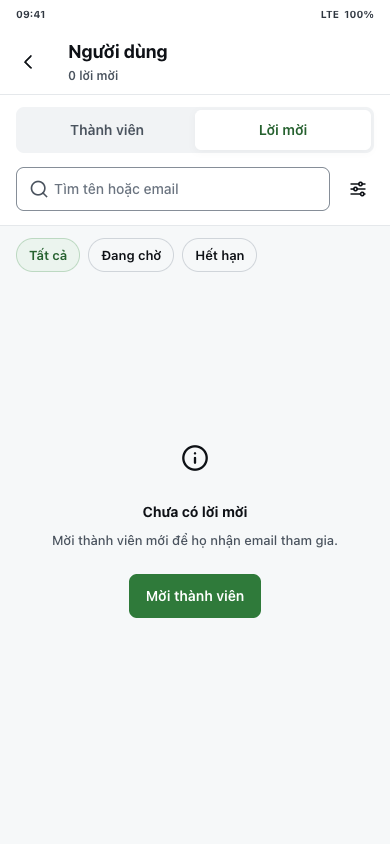
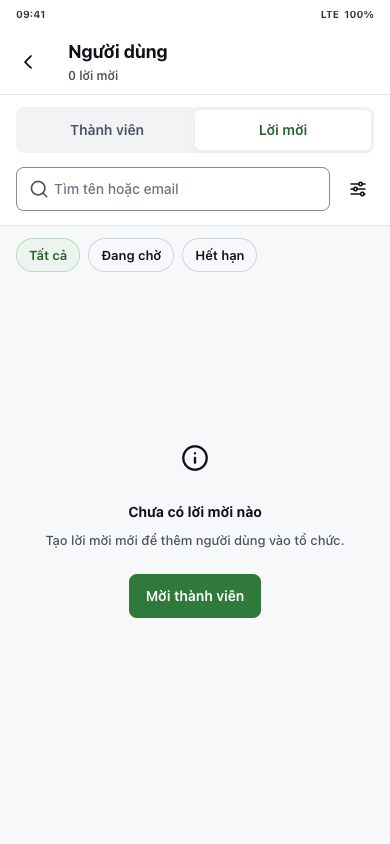
docs(10-8h): prototype sửa Q3–Q6, Q18, Q20, Q21; thêm ca select-role__confirm, chụp lại ảnh

Changed region(s): [[0.1231, 0.5853, 0.8615, 0.6469]]

diff --git a/specs/themes/theme-01/03.design/prototype/html/app/users.js b/specs/themes/theme-01/03.design/prototype/html/app/users.js
@@ -52,7 +52,7 @@ export function usersListPage(s, placeWidth, { selectedId = null, toastHtml = ''
   else if (s.failure === 'forbidden') list = usersEmpty({ ic: 'shield', tone: 'warning', title: 'Bạn không có quyền quản lý', sub: 'Liên hệ Chủ tổ chức hoặc Quản trị viên để được cấp quyền phù hợp.', action: 'Quay lại' });
   else if (s.failure) list = usersEmpty({ ic: 'close', tone: 'danger', title: 'Không thể tải danh sách', sub: 'Không thể kết nối đến máy chủ. Vui lòng kiểm tra lại mạng.', action: 'Thử lại', danger: true });
   else if (!items.length && (s.query || s.chip)) list = usersEmpty({ ic: 'search', title: 'Không tìm thấy kết quả', sub: 'Thử từ khóa khác hoặc xóa bộ lọc đang áp dụng.', action: 'Xóa bộ lọc', variant: 'secondary' });
-  else if (!items.length) list = usersEmpty({ ic: 'info', title: s.tab === 0 ? 'Chưa có thành viên khác' : 'Chưa có lời mời', sub: s.tab === 0 ? 'Mời thêm người dùng để cùng vận hành tổ chức.' : 'Mời thành viên mới để họ nhận email tham gia.', action: 'Mời thành viên' });
+  else if (!items.length) list = usersEmpty({ ic: 'info', title: s.tab === 0 ? 'Chưa có thành viên khác' : 'Chưa có lời mời nào', sub: s.tab === 0 ? 'Mời thêm người dùng để cùng vận hành tổ chức.' : 'Tạo lời mời mới để thêm người dùng vào tổ chức.', action: 'Mời thành viên' });
   else list = `<div class="t1-ulist">${items.map((x) => (s.tab === 0 ? memberCard(x, x.id === selectedId) : invitationCard(x, x.id === selectedId))).join('')}</div>`;
   const chips = s.tab === 0 ? ['Tất cả', 'Hoạt động', 'Tạm ngừng'] : ['Tất cả', 'Đang chờ', 'Hết hạn'];
   const body = `<div class="t1-utop"><div class="t1-useg" role="tablist">${['Thành viên', 'Lời mời'].map((l, i) => `<button type="button" role="tab" aria-selected="${i === s.tab}">${l}</button>`).join('')}</div>
@@ -69,7 +69,7 @@ export function usersListPage(s, placeWidth, { selectedId = null, toastHtml = ''
 export function filterSheet(kind) {
   const groups = kind === 'members'
     ? [['Trạng thái', ['Tất cả', 'Hoạt động', 'Tạm ngừng']], ['Vai trò', ['Tất cả', 'Chủ cửa hàng', 'Nhân viên bán hàng', 'Kế toán', 'Thủ kho']], ['Sắp xếp', ['Tất cả', 'Tên A–Z', 'Tên Z–A']]]
-    : [['Trạng thái', ['Tất cả', 'Đang chờ', 'Hết hạn']], ['Kết quả gửi', ['Tất cả', 'Đã gửi', 'Gửi lỗi', 'Thu hồi']], ['Thời gian', ['Tất cả', '7 ngày', '30 ngày', 'Tùy chọn']]];
+    : [['Trạng thái', ['Tất cả', 'Đang chờ', 'Hết hạn', 'Thu hồi']], ['Kết quả gửi', ['Tất cả', 'Đã gửi', 'Gửi lỗi']], ['Thời gian', ['Tất cả', '7 ngày', '30 ngày', 'Tùy chọn']]];
   return `<div class="t1-fsheet">${groups.map(([t, opts]) => `<div class="t1-fgroup"><b>${esc(t)}</b><div class="t1-fwrap">${opts.map((o, i) => filterChip(o, i === 0)).join('')}</div></div>`).join('')}
     <div class="t1-row2 t1-fsheet__acts">${button('Đặt lại', { variant: 'secondary', full: true })}${button('Áp dụng', { full: true })}</div></div>`;
 }
@@ -95,7 +95,7 @@ export function usersPage(v) {
 
 // ---------------------------------------------------------------- ID-15 mời thành viên
 export const INVITE_STATES = {
-  empty: {}, filled: { email: 'tuan@anphat.vn', role: 'Nhân viên bán hàng' }, 'empty-submit': { errors: { email: 'Vui lòng nhập email và chọn vai trò.' } },
+  empty: {}, filled: { email: 'tuan@anphat.vn', role: 'Nhân viên bán hàng' }, 'empty-submit': { errors: { email: 'Vui lòng nhập email và chọn vai trò.', role: 'Vui lòng nhập email và chọn vai trò.' } },
   'no-role': { email: 'tuan@anphat.vn', errors: { role: 'Vui lòng nhập email và chọn vai trò.' } }, 'bad-email': { email: 'tuan@anphat', role: 'Nhân viên bán hàng', errors: { email: 'Email không hợp lệ' } },
   submitting: { email: 'tuan@anphat.vn', role: 'Nhân viên bán hàng', busy: true },
   'toast-failed': { email: 'tuan@anphat.vn', role: 'Nhân viên bán hàng', toast: ['danger', 'Không gửi được lời mời', 'Đã có lời mời đang chờ xử lý.'] },
@@ -114,7 +114,7 @@ export function invitePage(v) {
     return `<button type="button" role="radio" class="t1-rolelist__opt${on ? ' is-on' : ''}" aria-checked="${on}">${radio(on)}<span><b>${esc(name)}</b><small>${esc(d)}</small></span></button>`;
   };
   const body = `<div class="t1-list t1-invitem">
-    ${card(`${field({ label: 'Email', required: true, control: input({ value: s.email || '', hint: 'nhanvien@minhphat.vn', invalid: !!e.email }), error: e.email })}
+    ${card(`${field({ label: 'Email', required: true, control: input({ value: s.email || '', hint: 'nhanvien@example.com', invalid: !!e.email }), error: e.email })}
       <p class="t1-small t1-invitem__note">Người nhận phải đăng nhập đúng email. Lời mời sẽ hết hạn sau 7 ngày.</p>`, 't1-card--pad')}
     ${card(`<div class="t1-rolelist__legend"><span class="t1-label">Vai trò ban đầu<i aria-hidden="true"> *</i></span></div>
       <div role="radiogroup" aria-label="Vai trò ban đầu">${SELECT_ROLES.map(roleRow).join('')}</div>`, `t1-rolelist${e.role ? ' is-invalid' : ''}`)}
@@ -159,10 +159,10 @@ function invitationDetail(s, w, split, device) {
 
 /** Sheet "Thao tác lời mời" (có title): đệm 16; IamActionTile gửi lại / khe 8 / thu hồi (danger) / khe 16. */
 const invitationActions = () => `<div class="t1-list">${actionTile('rotate', 'Gửi lại lời mời', 'Gửi lại email đến người nhận')}<div class="t1-gap-sm"></div>${actionTile('trash', 'Thu hồi lời mời', 'Người nhận không thể tiếp tục tham gia', true)}<div class="t1-gap-md"></div></div>`;
-/** _RevokeInvitationSheetBody: đệm 16; H3 w700 danger; khe 4; bodyDefault; (không khe) VField "Lý do thu hồi" + ô 3 dòng; khe 24; Quay lại / khe 8 / Thu hồi (secondary danger) / khe 8. */
+/** _RevokeInvitationSheetBody: đệm 16; H3 w700 danger; khe 4; bodyDefault; khe 16; VField "Lý do thu hồi *" + ô 3 dòng; khe 24; Quay lại / khe 8 / Thu hồi (secondary danger) / khe 8. */
 export const revokeSheet = (s) => `<div class="t1-list"><h2 class="t1-h3 t1-danger">Thu hồi lời mời?</h2><div class="t1-gap-xs"></div>
-  <p class="t1-body2">Người nhận sẽ không thể dùng liên kết hiện tại để tham gia tổ chức.</p>
-  ${field({ label: 'Lý do thu hồi', control: textArea({ value: s.reason || '', hint: 'Ví dụ: Sai email người nhận', invalid: !!s.revokeError, disabled: !!s.revokeBusy }), error: s.revokeError })}
+  <p class="t1-body2">Người nhận sẽ không thể dùng liên kết hiện tại để tham gia tổ chức.</p><div class="t1-gap-md"></div>
+  ${field({ label: 'Lý do thu hồi', required: true, control: textArea({ value: s.reason || '', hint: 'Ví dụ: Sai email người nhận', invalid: !!s.revokeError, disabled: !!s.revokeBusy }), error: s.revokeError })}
   <div class="t1-gap-lg"></div>${button('Quay lại', { variant: 'secondary', full: true, disabled: !!s.revokeBusy })}<div class="t1-gap-sm"></div>
   ${button('Thu hồi lời mời', { variant: 'secondary', full: true, loading: !!s.revokeBusy, cls: 't1-btn--danger-outline' })}<div class="t1-gap-sm"></div></div>`;
 
@@ -206,7 +206,7 @@ function memberDetail(s, w, split, device) {
   const body = `<div class="t1-list t1-orgm">
     <div class="t1-orgm__head${off}">${memberAvatar(m)}<div><h2>${esc(m.name)}</h2><p>${esc(m.email)}</p></div></div>
     <section class="t1-card t1-card--pad t1-orgm__sec${off}"><div class="t1-dhead"><h3 class="t1-h4 t1-h4--600">Thông tin thành viên</h3>${badge(label, tone)}</div>
-      ${drow('Tên', m.name)}${drow('Email', m.email)}${drow('Vai trò hiện hành', m.role)}${drow(m.isOwner ? 'Quyền sở hữu' : 'Danh tính', m.isOwner ? 'Chủ sở hữu' : 'Chỉ đọc')}</section>
+      ${drow('Tên', m.name)}${drow('Email', m.email)}${drow('Vai trò hiện hành', m.role)}${drow('Quyền sở hữu', m.isOwner ? 'Chủ sở hữu' : 'Thành viên')}</section>
     ${note}
     <section class="t1-card t1-card--pad t1-orgm__sec"><h3 class="t1-h4 t1-h4--600">Trạng thái truy cập</h3>${access}</section>
   </div>`;
@@ -248,7 +248,14 @@ export function memberDetailPage(v) {
 // ---------------------------------------------------------------- ID-18 chọn vai trò
 /** _availableRoles (mô tả riêng của màn này, ngắn hơn TH-01 3.4); vai trò hiện tại đưa lên đầu. */
 export const SELECT_ROLES = [['Nhân viên bán hàng', 'Bán hàng và chăm sóc khách hàng'], ['Kế toán', 'Công nợ, hóa đơn và báo cáo'], ['Thủ kho', 'Nhập xuất, tồn kho và kiểm kê'], ['Chủ cửa hàng', 'Quản lý toàn bộ cửa hàng']];
-export const SELECT_STATES = { default: { id: 'm2' }, selected: { id: 'm2', pick: 'Thủ kho' }, suspended: { id: 'm3' } };
+export const SELECT_STATES = { default: { id: 'm2' }, selected: { id: 'm2', pick: 'Thủ kho' }, confirm: { id: 'm2', pick: 'Thủ kho', sheet: 'confirm' }, suspended: { id: 'm3' } };
+
+/** showChangeRoleBottomSheet (MembershipLifecycleConfirmSheet, 10-8h Q6): tiêu đề đen; mô tả hai dòng "<cũ> → <mới>" + câu nhãn công việc; khe 32; Quay lại / khe 8 / "Xác nhận thay đổi" (primary). */
+export const changeRoleSheet = (m, pick, busy = false) => `<div class="t1-sheetpad"><h2 class="t1-h3">${esc(`Đổi vai trò của ${m.name}?`)}</h2><div class="t1-gap-xs"></div>
+  <p class="t1-body2">${esc(`Vai trò ${m.role} → ${pick}.`)}<br>Vai trò là nhãn công việc; quyền nghiệp vụ của thành viên không thay đổi.</p><div class="t1-gap-xl"></div>
+  ${button('Quay lại', { variant: 'secondary', full: true, disabled: busy })}<div class="t1-gap-sm"></div>
+  ${button('Xác nhận thay đổi', { full: true, loading: busy })}</div>`;
+export const changeRoleTitle = (m) => `Đổi vai trò của ${m.name}?`;
 
 // Bố cục iPhone thiết kế lại qua impeccable live (2026-11-25): ô tròn + tên + nhãn → "Chọn vai trò mới" → thẻ danh sách (vai trò hiện tại dòng đầu nền canvas, không chọn được). Web giữ bản cũ ở web/users.js.
 function selectRole(s, w) {
@@ -264,7 +271,7 @@ function selectRole(s, w) {
   };
   const body = `<div class="t1-list t1-selrole">
     <div class="t1-orgm__head">${memberAvatar(m)}<div><div class="t1-selrole__name"><h2>${esc(m.name)}</h2>${badge(active ? 'Hoạt động' : 'Tạm ngừng', active ? 'success' : 'danger')}</div>
-      <p>${esc(`${m.email} · ${m.role}`)}</p><p>${m.isOwner ? 'Quyền sở hữu: Chủ sở hữu' : 'Danh tính: Chỉ đọc'}</p></div></div>
+      <p>${esc(`${m.email} · ${m.role}`)}</p><p>${m.isOwner ? 'Quyền sở hữu: Chủ sở hữu' : 'Quyền sở hữu: Thành viên'}</p></div></div>
     <h3 class="t1-selrole__title">Chọn vai trò mới</h3><p class="t1-small t1-selrole__sub">Mỗi thành viên có đúng một vai trò hiện hành.</p>
     ${card(`<div role="radiogroup" aria-label="Chọn vai trò mới">${roles.map(item).join('')}</div>`, 't1-rolelist')}</div>`;
   const bar = `<div class="t1-bar-pad t1-row2 t1-row2--8">${button('Hủy', { variant: 'secondary', full: true })}${button('Tiếp tục', { full: true, disabled: !s.pick, attrs: 'data-primary' })}</div>`;
@@ -273,5 +280,7 @@ function selectRole(s, w) {
 
 export function selectRolePage(v) {
   const s = SELECT_STATES[v.state];
-  return { page: usersArea(v, { tab: 0 }, { selectedId: s.id, detail: (w) => selectRole(s, w) }) };
+  const m = memberById(s.id);
+  const overlay = s.sheet === 'confirm' ? adaptiveSheet(v.width, changeRoleSheet(m, s.pick), changeRoleTitle(m)) : '';
+  return { page: usersArea(v, { tab: 0 }, { selectedId: s.id, detail: (w) => selectRole(s, w) }), overlay };
 }

diff --git a/specs/themes/theme-01/03.design/prototype/html/app/cases.js b/specs/themes/theme-01/03.design/prototype/html/app/cases.js
@@ -134,22 +134,22 @@ export const SCREENS = [
       ['invitations', 'Tab Lời mời', 'Thẻ email + dòng vai trò + dòng "hạn · gửi" + nhãn (Đang chờ vàng, Sắp hết hạn / Lỗi gửi đỏ, Hết hạn xám).'],
       ['loading', 'Đang tải thành viên', 'Phụ đề "Đang tải thành viên"; VLoading dưới hàng chip; thanh dưới vẫn hiện.'],
       ['invitations-loading', 'Đang tải lời mời', 'Phụ đề "Đang tải lời mời".'],
-      ['invitations-empty', 'Chưa có lời mời', 'Hộp icon 56 + "Chưa có lời mời" + nút "Mời thành viên" (khung cao 480 canh giữa); không có thanh dưới.'],
+      ['invitations-empty', 'Chưa có lời mời', 'Hộp icon 56 + "Chưa có lời mời nào" / "Tạo lời mời mới để thêm người dùng vào tổ chức." + nút "Mời thành viên" (khung cao 480 canh giữa); không có thanh dưới.'],
       ['no-results', 'Không có kết quả', 'Tìm "hoàng": phụ đề "0 kết quả", "Không tìm thấy kết quả" + "Xóa bộ lọc".'],
       ['chip-suspended', 'Chip Tạm ngừng', 'Chip đang chọn tone primary; còn 1 thẻ.'],
       ['forbidden', 'Không có quyền', 'Khiên vàng, "Bạn không có quyền quản lý" + nút xanh "Quay lại". Phụ đề "Chưa cấp quyền".'],
       ['error', 'Lỗi tải', 'Dấu × đỏ, tiêu đề đỏ, nút đỏ "Thử lại".'],
       ['filter-members', 'Bộ lọc thành viên (sheet)', 'Sheet có tiêu đề + gạch; chip kiểu riêng (viền / nền xanh nhạt) khác chip nhanh. Web: hộp thoại 480.'],
-      ['filter-invitations', 'Bộ lọc lời mời (sheet)', 'Kết quả gửi, Thời gian (Tùy chọn mở chọn khoảng ngày).'],
+      ['filter-invitations', 'Bộ lọc lời mời (sheet)', 'Trạng thái (Tất cả / Đang chờ / Hết hạn / Thu hồi), Kết quả gửi (Tất cả / Đã gửi / Gửi lỗi), Thời gian (Tùy chọn mở chọn khoảng ngày).'],
       ['filter-applied', 'Bộ lọc đang áp dụng', 'Chấm xanh 8 ở góc nút bộ lọc; chip nhanh vẫn "Tất cả" (vai trò lọc không hiện ra ngoài).'],
       ['toast-revoked', 'Toast đã thu hồi', 'Hẹp: về danh sách, toast đáy.'],
     ],
   },
   {
     id: 'invite', group: 'admin', code: 'ID-15', title: 'Mời thành viên', route: '/more/users/invite', states: [
-      ['empty', 'Mặc định', 'Thẻ Email (ghi chú dưới ô) + thẻ "Vai trò ban đầu" 4 dòng radio có mô tả. Gợi ý "nhanvien@minhphat.vn" (không phải tên cửa hàng).'],
+      ['empty', 'Mặc định', 'Thẻ Email (ghi chú dưới ô) + thẻ "Vai trò ban đầu" 4 dòng radio có mô tả. Gợi ý "nhanvien@example.com".'],
       ['filled', 'Đã điền', 'Chọn "Nhân viên bán hàng".'],
-      ['empty-submit', 'Bấm Gửi khi trống', 'Chỉ ô Email báo "Vui lòng nhập email và chọn vai trò." — ô vai trò không đỏ.'],
+      ['empty-submit', 'Bấm Gửi khi trống', 'Cả ô Email và thẻ vai trò báo "Vui lòng nhập email và chọn vai trò."; thẻ viền đỏ.'],
       ['no-role', 'Thiếu vai trò', 'Lỗi giống câu trên hiện dưới thẻ vai trò; thẻ viền đỏ.'],
       ['bad-email', 'Email sai', '"Email không hợp lệ".'],
       ['submitting', 'Đang gửi', '"Đang gửi..." mờ, không vòng xoay (khác các màn khác).'],
@@ -166,8 +166,8 @@ export const SCREENS = [
       ['loading', 'Đang tải', 'VLoading.'],
       ['error', 'Lỗi tải', '"Không tải được lời mời".'],
       ['actions', 'Sheet Thao tác', 'Có tiêu đề "Thao tác lời mời"; ô "Gửi lại" và ô đỏ "Thu hồi".'],
-      ['revoke', 'Sheet Thu hồi', 'Tiêu đề đỏ; ô lý do dính sát câu mô tả (không khe); "Thu hồi lời mời" viền đỏ dưới "Quay lại".'],
-      ['revoke-empty', 'Thu hồi khi trống lý do', 'Lỗi "Vui lòng nhập lý do thu hồi." (nhãn không có * dù bắt buộc).'],
+      ['revoke', 'Sheet Thu hồi', 'Tiêu đề đỏ; khe 16 rồi ô "Lý do thu hồi *"; "Thu hồi lời mời" viền đỏ dưới "Quay lại".'],
+      ['revoke-empty', 'Thu hồi khi trống lý do', 'Lỗi "Vui lòng nhập lý do thu hồi." dưới ô.'],
       ['revoke-submitting', 'Đang thu hồi', 'Ô lý do và "Quay lại" mờ, nút đỏ vòng xoay.'],
       ['toast-created', 'Vừa gửi lời mời', 'Sau ID-15: toast hiện ở trang chi tiết (title, message rỗng).'],
       ['toast-created-warning', 'Tạo xong nhưng email lỗi', 'Toast vàng "Email chưa gửi được…".'],
@@ -178,7 +178,7 @@ export const SCREENS = [
   },
   {
     id: 'member-detail', group: 'admin', code: 'ID-17', title: 'Chi tiết thành viên', route: '/more/users/members/m2', states: [
-      ['active', 'Hoạt động', 'Ô tròn + tên + email đầu màn; hai thẻ; "Danh tính: Chỉ đọc" cho mọi thành viên không phải chủ (dễ hiểu nhầm là quyền). Thao tác ⌃.'],
+      ['active', 'Hoạt động', 'Ô tròn + tên + email đầu màn; hai thẻ; "Quyền sở hữu: Thành viên" cho thành viên không phải chủ. Thao tác ⌃.'],
       ['suspended', 'Tạm ngừng', 'Banner vàng giữa hai thẻ; "Tạm ngừng lúc".'],
       ['removed', 'Đã loại', 'Đầu màn + thẻ đầu mờ 60%; banner info; không thanh thao tác.'],
       ['owner', 'Chủ sở hữu duy nhất', '"Quyền sở hữu: Chủ sở hữu"; không có thanh thao tác.'],
@@ -197,8 +197,9 @@ export const SCREENS = [
   },
   {
     id: 'select-role', group: 'admin', code: 'ID-18', title: 'Chọn vai trò', route: '/more/users/members/m2', states: [
-      ['default', 'Mặc định', 'Ô tròn + tên + nhãn đầu màn; danh sách một khối, vai trò hiện tại dòng đầu nền xám có nhãn "Hiện tại"; chưa chọn → "Tiếp tục" mờ. Không có màn "Xem trước thay đổi" — chọn xong lưu ngay.'],
+      ['default', 'Mặc định', 'Ô tròn + tên + nhãn đầu màn; danh sách một khối, vai trò hiện tại dòng đầu nền xám có nhãn "Hiện tại"; chưa chọn → "Tiếp tục" mờ; "Tiếp tục" mở sheet xác nhận.'],
       ['selected', 'Đã chọn Thủ kho', 'Dòng chọn nền xanh nhạt; radio bật.'],
+      ['confirm', 'Xác nhận đổi vai trò (sheet)', '"Đổi vai trò của Trần Văn Minh?"; "Vai trò Nhân viên bán hàng → Thủ kho." + câu nhãn công việc; "Quay lại" / "Xác nhận thay đổi". Web: hộp thoại.'],
       ['suspended', 'Thành viên tạm ngừng', 'Nhãn đỏ "Tạm ngừng" cạnh tên; ô tròn xám.'],
     ],
   },

diff --git a/specs/themes/theme-01/03.design/prototype/html/app/web/users.js b/specs/themes/theme-01/03.design/prototype/html/app/web/users.js
@@ -7,7 +7,7 @@ import {
 } from '../ds.js';
 import { BAR_H, loadFailed } from '../org.js';
 import {
-  filterSheet, INVITATION_STATES, INVITE_STATES, LIFECYCLE, lifecycleSheet, LIST_STATES, MEMBER_STATES, revokeSheet, SELECT_ROLES, SELECT_STATES,
+  changeRoleSheet, changeRoleTitle, filterSheet, INVITATION_STATES, INVITE_STATES, LIFECYCLE, lifecycleSheet, LIST_STATES, MEMBER_STATES, revokeSheet, SELECT_ROLES, SELECT_STATES,
   subtitle, usersEmpty,
 } from '../users.js';
 
@@ -31,7 +31,7 @@ function usersListPage(s, toastHtml) {
   else if (s.failure === 'forbidden') list = usersEmpty({ ic: 'shield', tone: 'warning', title: 'Bạn không có quyền quản lý', sub: 'Liên hệ Chủ tổ chức hoặc Quản trị viên để được cấp quyền phù hợp.', action: 'Quay lại' });
   else if (s.failure) list = usersEmpty({ ic: 'close', tone: 'danger', title: 'Không thể tải danh sách', sub: 'Không thể kết nối đến máy chủ. Vui lòng kiểm tra lại mạng.', action: 'Thử lại', danger: true });
   else if (!items.length && (s.query || s.chip)) list = usersEmpty({ ic: 'search', title: 'Không tìm thấy kết quả', sub: 'Thử từ khóa khác hoặc xóa bộ lọc đang áp dụng.', action: 'Xóa bộ lọc' });
-  else if (!items.length) list = usersEmpty({ ic: 'info', title: s.tab === 0 ? 'Chưa có thành viên khác' : 'Chưa có lời mời', sub: s.tab === 0 ? 'Mời thêm người dùng để cùng vận hành tổ chức.' : 'Mời thành viên mới để họ nhận email tham gia.', action: 'Mời thành viên' });
+  else if (!items.length) list = usersEmpty({ ic: 'info', title: s.tab === 0 ? 'Chưa có thành viên khác' : 'Chưa có lời mời nào', sub: s.tab === 0 ? 'Mời thêm người dùng để cùng vận hành tổ chức.' : 'Tạo lời mời mới để thêm người dùng vào tổ chức.', action: 'Mời thành viên' });
   const chips = s.tab === 0 ? ['Tất cả', 'Hoạt động', 'Tạm ngừng'] : ['Tất cả', 'Đang chờ', 'Hết hạn'];
   return usersTablePage(s, items, list, chips, toastHtml);
 }
@@ -83,7 +83,7 @@ export function invitePage(v) {
   };
   const body = `<div class="t1-formpage"><p class="t1-small">Người nhận phải đăng nhập đúng email. Lời mời sẽ hết hạn sau 7 ngày.</p>
     <div class="t1-formcard"><div class="t1-form">
-      ${field({ label: 'Email', required: true, control: input({ value: s.email || '', hint: 'nhanvien@minhphat.vn', invalid: !!e.email, disabled: !!s.busy }), error: e.email })}
+      ${field({ label: 'Email', required: true, control: input({ value: s.email || '', hint: 'nhanvien@example.com', invalid: !!e.email, disabled: !!s.busy }), error: e.email })}
       <fieldset class="t1-rolepick${e.role ? ' is-invalid' : ''}"><legend class="t1-label">Vai trò ban đầu<i aria-hidden="true"> *</i></legend>
         <div class="t1-rolepick__grid">${SELECT_ROLES.map(roleCard).join('')}</div>
         ${e.role ? fieldError(e.role) : fieldDesc('Vai trò có thể thay đổi sau khi tham gia.')}</fieldset>
@@ -139,7 +139,7 @@ function memberDetail(s, w, device) {
   const sec = (title, action, inner) => `<section class="t1-orgsec"><div class="t1-orgsec__head"><h2>${esc(title)}</h2>${action}</div>${inner}</section>`;
   const body = `<div class="t1-orgp">
     <div class="t1-orgp__head${m.status === 'removed' ? ' t1-o60' : ''}">${avatar(m.name).replace('t1-avatar"', 't1-avatar t1-avatar--lg"')}<div><h1>${esc(m.name)}</h1><p>${esc(`${m.email} · ${m.role}`)}</p></div></div>
-    <div${m.status === 'removed' ? ' class="t1-o60"' : ''}>${sec('Thông tin thành viên', badge(label, tone), `<div class="t1-stack12">${row('Tên', m.name)}${row('Email', m.email)}${row('Vai trò hiện hành', m.role)}${row(m.isOwner ? 'Quyền sở hữu' : 'Danh tính', m.isOwner ? 'Chủ sở hữu' : 'Chỉ đọc')}</div>`)}</div>
+    <div${m.status === 'removed' ? ' class="t1-o60"' : ''}>${sec('Thông tin thành viên', badge(label, tone), `<div class="t1-stack12">${row('Tên', m.name)}${row('Email', m.email)}${row('Vai trò hiện hành', m.role)}${row('Quyền sở hữu', m.isOwner ? 'Chủ sở hữu' : 'Thành viên')}</div>`)}</div>
     ${note}
     ${sec('Trạng thái truy cập', '', `<div class="t1-stack12">${access}</div>${acts}`)}
   </div>`;
@@ -165,7 +165,7 @@ function selectRole(s, w) {
   };
   const body = `<div class="t1-list">
     ${vcard(`<div class="t1-dhead"><h2 class="t1-h4">${esc(m.name)}</h2>${badge(active ? 'Hoạt động' : 'Tạm ngừng', active ? 'success' : 'danger')}</div><div class="t1-gap-xs"></div>
-      <p class="t1-small">${esc(`${m.email} · ${m.role}`)}</p><div class="t1-gap-md"></div><p class="t1-strong">${m.isOwner ? 'Quyền sở hữu: Chủ sở hữu' : 'Danh tính: Chỉ đọc'}</p>`)}
+      <p class="t1-small">${esc(`${m.email} · ${m.role}`)}</p><div class="t1-gap-md"></div><p class="t1-strong">${m.isOwner ? 'Quyền sở hữu: Chủ sở hữu' : 'Quyền sở hữu: Thành viên'}</p>`)}
     <div class="t1-gap-md"></div><h2 class="t1-h4">Chọn vai trò mới</h2><div class="t1-gap-xs"></div><p class="t1-small">Mỗi thành viên có đúng một vai trò hiện hành.</p><div class="t1-gap-md"></div>
     ${roles.map(item).join('')}</div>`;
   const bar = `<div class="t1-bar-pad t1-row2 t1-row2--8">${button('Hủy', { variant: 'secondary', full: true })}${button('Tiếp tục', { full: true, disabled: !s.pick })}</div>`;
@@ -174,5 +174,7 @@ function selectRole(s, w) {
 
 export function selectRolePage(v) {
   const s = SELECT_STATES[v.state];
-  return { page: selectRole(s, v.width) };
+  const m = memberById(s.id);
+  const overlay = s.sheet === 'confirm' ? adaptiveSheet(v.width, changeRoleSheet(m, s.pick), changeRoleTitle(m)) : '';
+  return { page: selectRole(s, v.width), overlay };
 }

diff --git a/specs/themes/theme-01/03.design/prototype/html/app/admin-data.js b/specs/themes/theme-01/03.design/prototype/html/app/admin-data.js
@@ -21,7 +21,7 @@ export const ROLE_DESC = {
   'Thủ kho': 'Nhập xuất, tồn kho và kiểm kê',
 };
 
-// identityText: chủ → "Chủ sở hữu", còn lại → "Chỉ đọc" (member_ui_mapper.dart).
+// identityText: chủ → "Chủ sở hữu", còn lại → "Thành viên" (member_ui_mapper.dart, 10-8h Q18).
 export const MEMBERS = [
   { id: 'm1', name: 'Nguyễn Thị Lan', email: 'lan@anphat.vn', role: 'Chủ cửa hàng', status: 'active', isOwner: true, soleOwner: true, joined: '02/09/2026', lastActive: '22/11/2026 08:41' },
   { id: 'm2', name: 'Trần Văn Minh', email: 'minh@anphat.vn', role: 'Nhân viên bán hàng', status: 'active', joined: '15/10/2026', lastActive: '21/11/2026 17:05' },
@@ -31,7 +31,8 @@ export const MEMBERS = [
 export const REMOVED = { id: 'm4', name: 'Phạm Quốc Bảo', email: 'bao@anphat.vn', role: 'Thủ kho', status: 'removed', joined: '01/10/2026', removedAt: '10/11/2026 14:30' };
 export const memberById = (id) => [...MEMBERS, REMOVED].find((m) => m.id === id);
 
-/** statusDetail = "<vai trò> · <hạn> · <gửi>" (invitation_ui_mapper.dart); status theo thứ tự: kết thúc > gửi lỗi > sắp hết hạn (≤ 2 ngày) > đang chờ. */
+/** statusDetail = "<vai trò> · <hạn> · <gửi>" (invitation_ui_mapper.dart); status theo thứ tự: kết thúc > gửi lỗi > sắp hết hạn (≤ 2 ngày) > đang chờ.
+ * Đã chấp nhận / từ chối / thu hồi: không ghi hạn (expiry rỗng); mã gửi lạ → "—" (10-8h Q20). */
 export const INVITATIONS = [
   { id: 'i1', email: 'tuan@anphat.vn', role: 'Nhân viên bán hàng', expiry: 'Hết hạn sau 6 ngày', delivery: 'sent', wire: 'pending', status: 'pending' },
   { id: 'i2', email: 'nga.kt@gmail.com', role: 'Kế toán', expiry: 'Hết hạn trong 1 ngày', delivery: 'sent', wire: 'pending', status: 'expiring' },
@@ -39,7 +40,7 @@ export const INVITATIONS = [
   { id: 'i4', email: 'vy@anphat.vn', role: 'Nhân viên bán hàng', expiry: 'Đã hết hạn', delivery: 'sent', wire: 'expired', status: 'expired' },
 ];
 const DELIVERY = { failed: 'Chưa gửi được email', queued: 'Đang xếp hàng gửi', sent: 'Đã gửi email' };
-export const statusDetail = (i) => `${i.role} · ${i.expiry} · ${DELIVERY[i.delivery] || i.delivery}`;
+export const statusDetail = (i) => [i.role, i.expiry, DELIVERY[i.delivery] || '—'].filter(Boolean).join(' · ');
 export const invitationById = (id) => INVITATIONS.find((i) => i.id === id);
 
 export const MEMBER_BADGE = { active: ['Hoạt động', 'success'], suspended: ['Tạm ngừng', 'danger'], removed: ['Đã loại', 'danger'] };

diff --git a/specs/themes/theme-01/03.design/prototype/html/README.md b/specs/themes/theme-01/03.design/prototype/html/README.md
@@ -159,10 +159,10 @@ Màn trần không có tương tác: mỗi trạng thái là một ca.
 41. Dưới tab có hai gạch chồng (gạch của VTabs + Divider); ô tìm nền trắng nhưng hàng tab / chip nền xám.
 42. Thẻ thành viên: tên + "Chủ sở hữu" xuống dòng trong cột 360; "email · vai trò" xuống dòng. Bộ lọc đã áp dụng chỉ báo bằng chấm 8 px, chip nhanh vẫn "Tất cả".
 43. Chi tiết lời mời: in giá trị thô "Giao nhận: sent", "Trạng thái: expired"; thanh "Thao tác" có hai gạch trên (Container tự vẽ thêm). Lời mời hết hạn không có thao tác nào (không mời lại được từ đây).
-44. Chi tiết thành viên: "Danh tính: Chỉ đọc" cho mọi người không phải chủ — đọc như quyền chỉ đọc. Chủ sở hữu duy nhất không có thanh thao tác và không có câu giải thích vì sao.
-45. Sheet thu hồi: ô lý do dính sát câu mô tả (không khe); lý do bắt buộc nhưng nhãn không có *. Nút xác nhận nguy hiểm là nút viền đỏ đặt dưới "Quay lại" (thứ tự ngược hộp thoại "Bỏ thay đổi?" nơi nút đỏ đặc bên phải).
-46. Mời thành viên: bấm gửi khi trống chỉ ô Email báo "Vui lòng nhập email và chọn vai trò."; thiếu vai trò thì câu đó hiện dưới VSelect nhưng viền không đỏ; nút đang gửi đổi chữ "Đang gửi..." không vòng xoay (các màn khác dùng vòng xoay). Gợi ý "nhanvien@minhphat.vn" là tên cửa hàng khác.
-47. Chọn vai trò: không có bước "Xem trước thay đổi" (TH-01 ID-18 có) — chọn xong bấm Tiếp tục là đổi ngay; mô tả vai trò ở màn này khác mô tả ở màn Vai trò.
+44. Chi tiết thành viên: "Danh tính: Chỉ đọc" cho mọi người không phải chủ — đọc như quyền chỉ đọc. Chủ sở hữu duy nhất không có thanh thao tác và không có câu giải thích vì sao. (Đã sửa 10-8h)
+45. Sheet thu hồi: ô lý do dính sát câu mô tả (không khe); lý do bắt buộc nhưng nhãn không có *. Nút xác nhận nguy hiểm là nút viền đỏ đặt dưới "Quay lại" (thứ tự ngược hộp thoại "Bỏ thay đổi?" nơi nút đỏ đặc bên phải). (Đã sửa 10-8h)
+46. Mời thành viên: bấm gửi khi trống chỉ ô Email báo "Vui lòng nhập email và chọn vai trò."; thiếu vai trò thì câu đó hiện dưới VSelect nhưng viền không đỏ; nút đang gửi đổi chữ "Đang gửi..." không vòng xoay (các màn khác dùng vòng xoay). Gợi ý "nhanvien@minhphat.vn" là tên cửa hàng khác. (Đã sửa 10-8h)
+47. Chọn vai trò: không có bước "Xem trước thay đổi" (TH-01 ID-18 có) — chọn xong bấm Tiếp tục là đổi ngay; mô tả vai trò ở màn này khác mô tả ở màn Vai trò. (Đã sửa 10-8h)
 
 **Vai trò (ID-19)**
 
